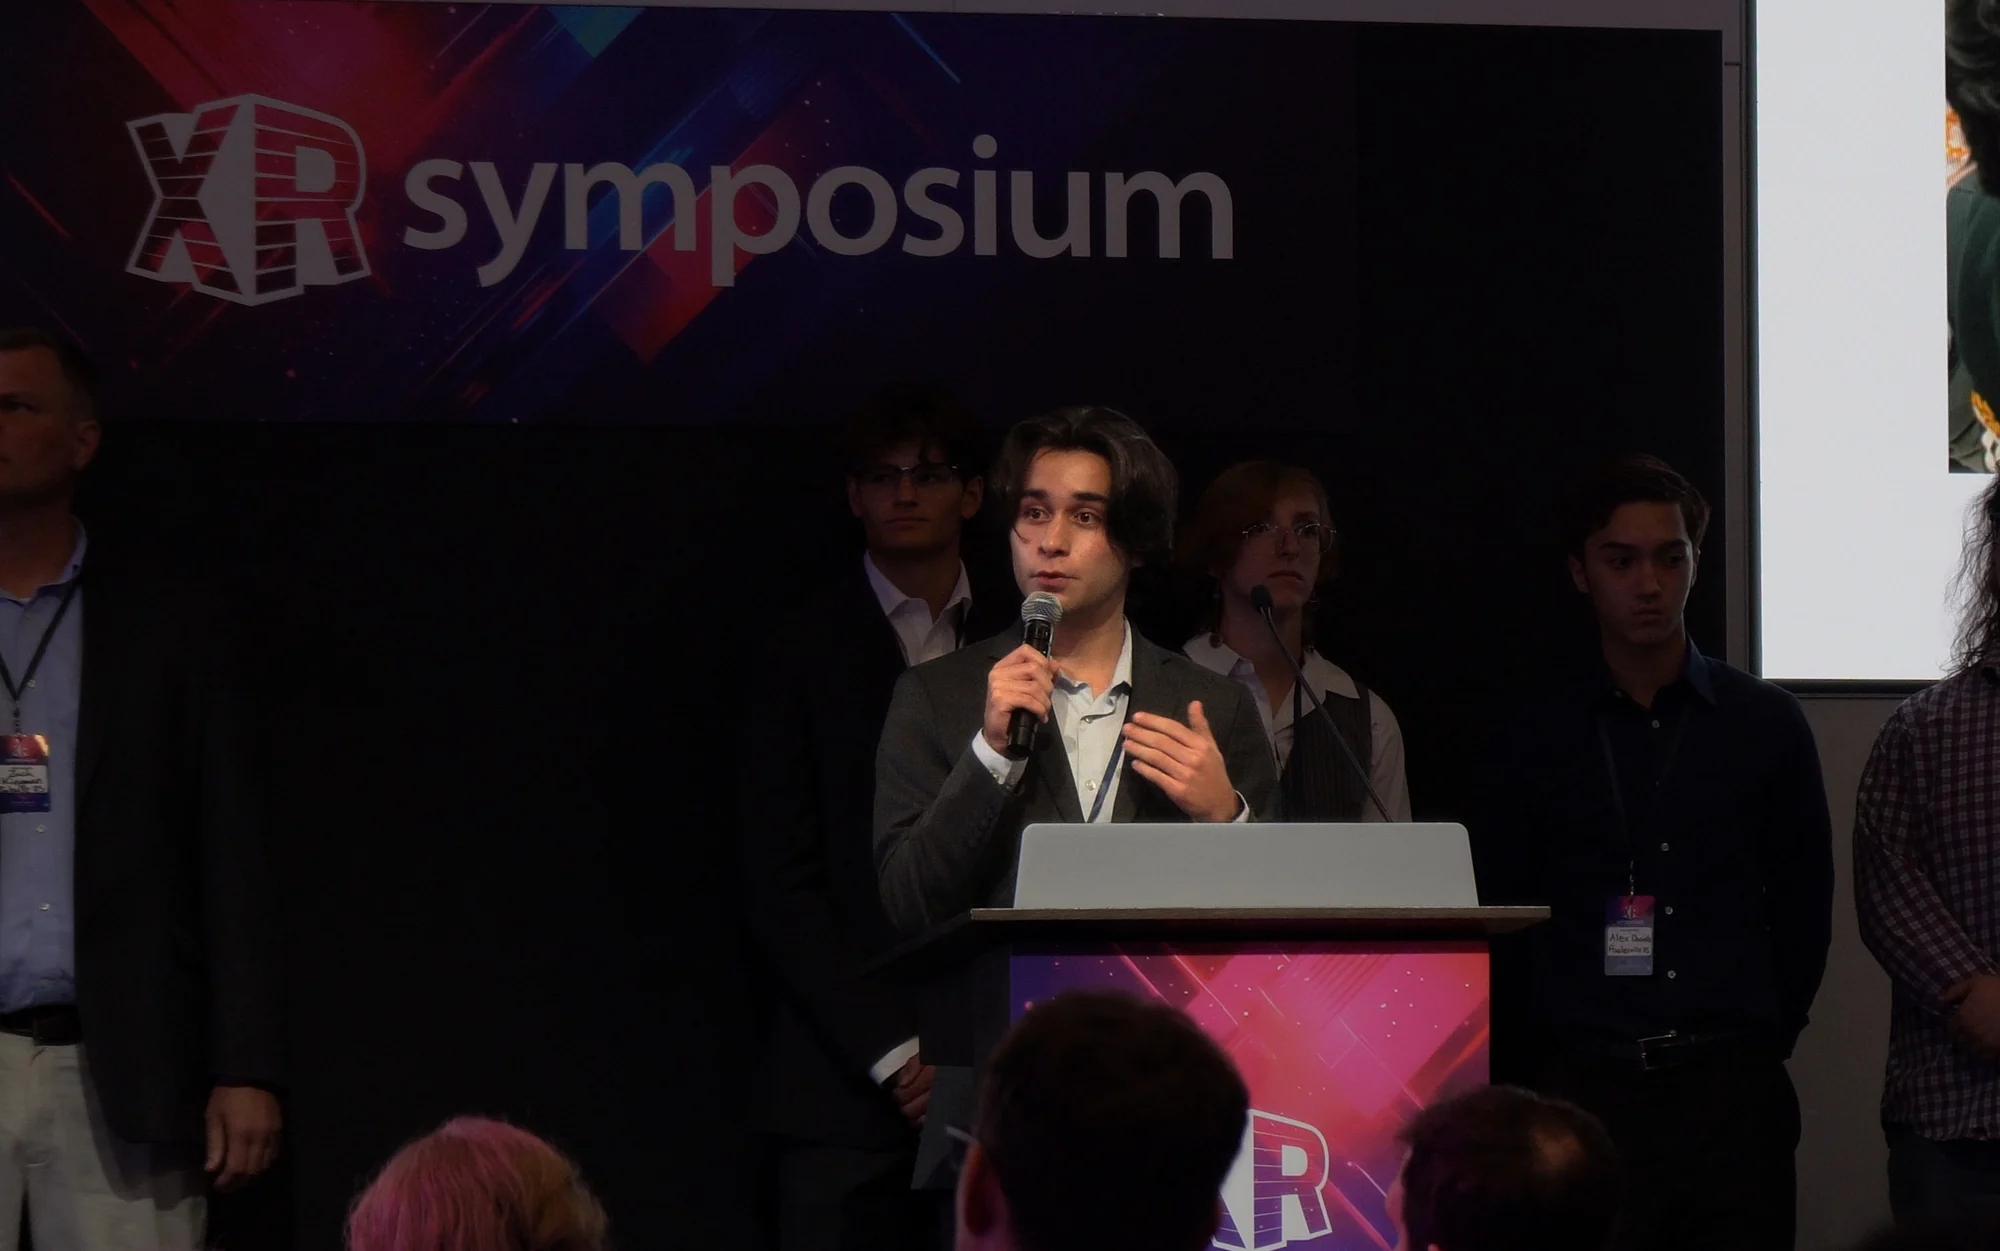
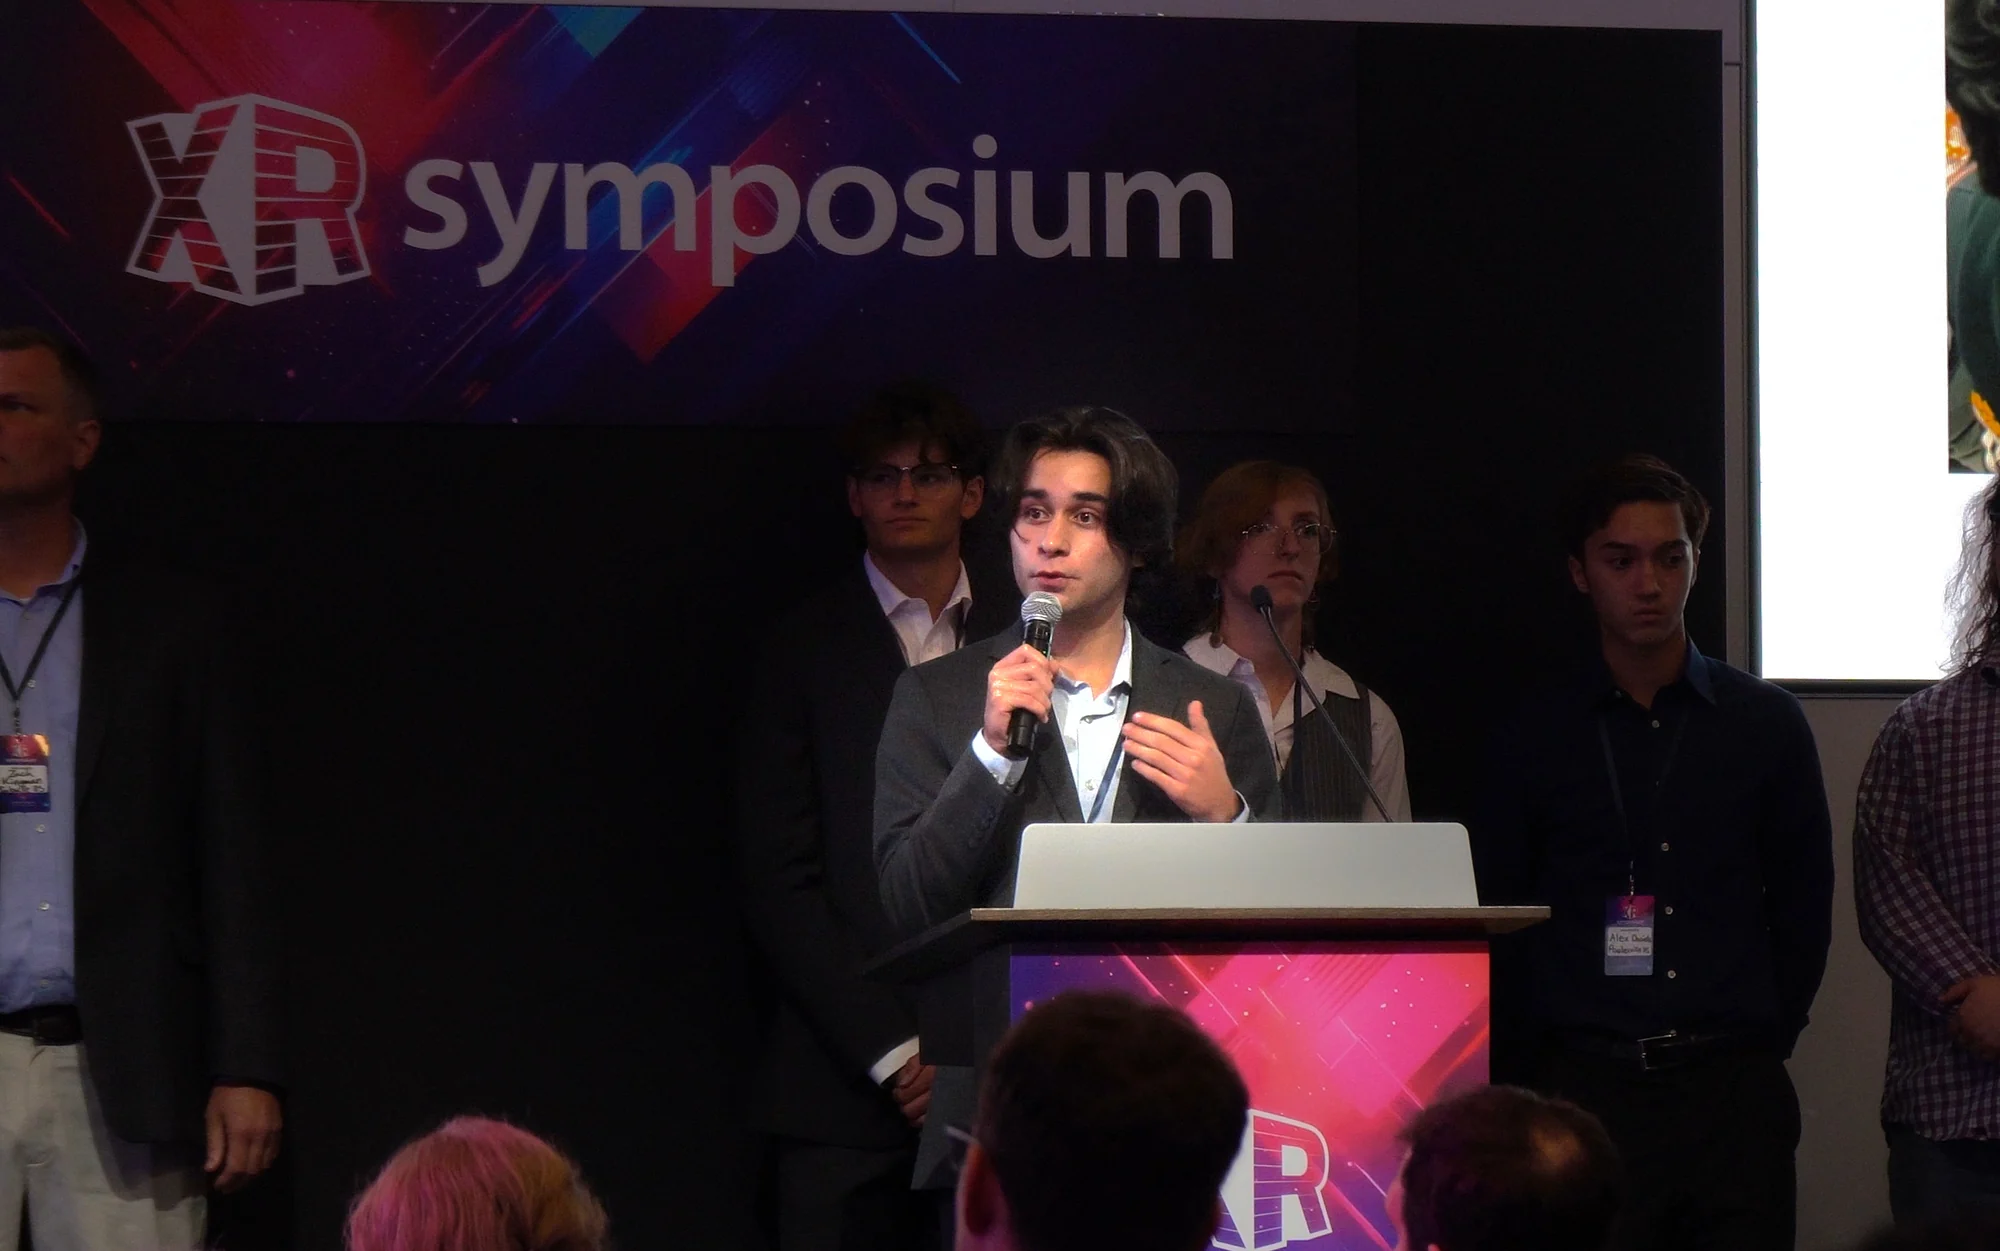
Use Ben's own darktable grade for the symposium photo, cycle emulsion plates
The first symposium frame was an older, flatter export. The graded version exists
only as his darktable sidecar for the full 4K frame, so it is rendered through that
sidecar with the square crop switched off. emulsion now fades through its plates
every five seconds while on screen, and stops once a plate is chosen by hand.

diff --git a/src/scenes/Emulsion.tsx b/src/scenes/Emulsion.tsx
@@ -91,7 +91,7 @@ function makeRenderer(canvas: HTMLCanvasElement): Draw | null {
  * A live emulsion plate filling its parent. Renders below display resolution and at most
  * 30 frames a second, and only while on screen; a full-screen fBm shader is not free.
  */
-function Field({ plate, seed, className, quality = 0.7 }: { plate: Plate; seed: number; className?: string; quality?: number }) {
+function Field({ plate, seed, className, quality = 0.7, active = true }: { plate: Plate; seed: number; className?: string; quality?: number; active?: boolean }) {
   const canvas = useRef<HTMLCanvasElement>(null)
   const near = useNearViewport(canvas, '0px')
   const [failed, setFailed] = useState(false)
@@ -110,7 +110,7 @@ function Field({ plate, seed, className, quality = 0.7 }: { plate: Plate; seed: 
   useEffect(() => {
     const c = canvas.current
     const d = draw.current
-    if (!c || !d || !near) return
+    if (!c || !d || !near || !active) return
     const still = reducedMotion()
     const loopMs = 9000
     let raf = 0
@@ -132,7 +132,7 @@ function Field({ plate, seed, className, quality = 0.7 }: { plate: Plate; seed: 
     }
     raf = requestAnimationFrame(frame)
     return () => cancelAnimationFrame(raf)
-  }, [near, quality])
+  }, [near, quality, active])
   return (
     <canvas
       ref={canvas}
@@ -146,12 +146,47 @@ export function EmulsionField(_: { preset: 'hero' }) {
   return <Field plate={HERO} seed={0.37} quality={0.5} />
 }
 
+const CYCLE_MS = 5000
+const FADE_MS = 1400
+
+/**
+ * Two stacked canvases so one plate can fade into the next. Plates cycle on their own while the
+ * section is on screen, until a plate is picked by hand.
+ */
 export function EmulsionScene() {
   const [i, setI] = useState(0)
+  const [layers, setLayers] = useState<[number, number]>([0, 0])
+  const [front, setFront] = useState<0 | 1>(0)
+  const [fading, setFading] = useState(false)
+  const [auto, setAuto] = useState(true)
   const [seed, setSeed] = useState(0.37)
   const drag = useRef<{ x: number; seed: number } | null>(null)
   const wrap = useRef<HTMLDivElement>(null)
+  const visible = useNearViewport(wrap, '0px')
   const plate = PLATES[i]
+
+  const show = (j: number) => {
+    if (j === i) return
+    const back = (front === 0 ? 1 : 0) as 0 | 1
+    setLayers((l) => {
+      const n: [number, number] = [...l] as [number, number]
+      n[back] = j
+      return n
+    })
+    setFront(back)
+    setFading(true)
+    setI(j)
+  }
+  useEffect(() => {
+    if (!fading) return
+    const t = setTimeout(() => setFading(false), FADE_MS + 100)
+    return () => clearTimeout(t)
+  }, [fading, front])
+  useEffect(() => {
+    if (!auto || !visible || reducedMotion()) return
+    const t = setTimeout(() => show((i + 1) % PLATES.length), CYCLE_MS)
+    return () => clearTimeout(t)
+  })
   useEffect(() => {
     document.documentElement.style.setProperty('--accent', plate.p.c2 as string)
   }, [plate])
@@ -163,7 +198,7 @@ export function EmulsionScene() {
         data-cursor="Drag"
         onPointerDown={(e) => {
           drag.current = { x: e.clientX, seed }
-          ;(e.target as HTMLElement).setPointerCapture(e.pointerId)
+          ;(e.currentTarget as HTMLElement).setPointerCapture(e.pointerId)
         }}
         onPointerMove={(e) => {
           if (!drag.current) return
@@ -173,12 +208,25 @@ export function EmulsionScene() {
         onPointerUp={() => (drag.current = null)}
         onPointerCancel={() => (drag.current = null)}
       >
-        <Field plate={plate.p} seed={seed} quality={0.75} />
+        {([0, 1] as const).map((k) => (
+          <div key={k} className="emulsion-layer" style={{ opacity: front === k ? 1 : 0, zIndex: front === k ? 2 : 1, transitionDuration: `${FADE_MS}ms` }}>
+            <Field plate={PLATES[layers[k]].p} seed={seed} quality={0.75} active={front === k || fading} />
+          </div>
+        ))}
       </div>
       <div className="emulsion-bar">
         <div className="emulsion-plates" role="radiogroup" aria-label="Plate">
           {PLATES.map((p, j) => (
-            <button key={p.name} role="radio" aria-checked={i === j} className={i === j ? 'on' : ''} onClick={() => setI(j)}>
+            <button
+              key={p.name}
+              role="radio"
+              aria-checked={i === j}
+              className={i === j ? 'on' : ''}
+              onClick={() => {
+                setAuto(false)
+                show(j)
+              }}
+            >
               <i style={{ background: `linear-gradient(90deg, ${p.p.c0}, ${p.p.c1}, ${p.p.c2})` }} />
               {p.name}
             </button>

diff --git a/src/styles.css b/src/styles.css
@@ -690,3 +690,12 @@ button {
 @media (max-width: 820px) {
   .sp-phone { width: 34%; right: 2%; top: 22%; }
 }
+.emulsion-stage {
+  position: relative;
+}
+.emulsion-layer {
+  position: absolute;
+  inset: 0;
+  transition-property: opacity;
+  transition-timing-function: ease-in-out;
+}
